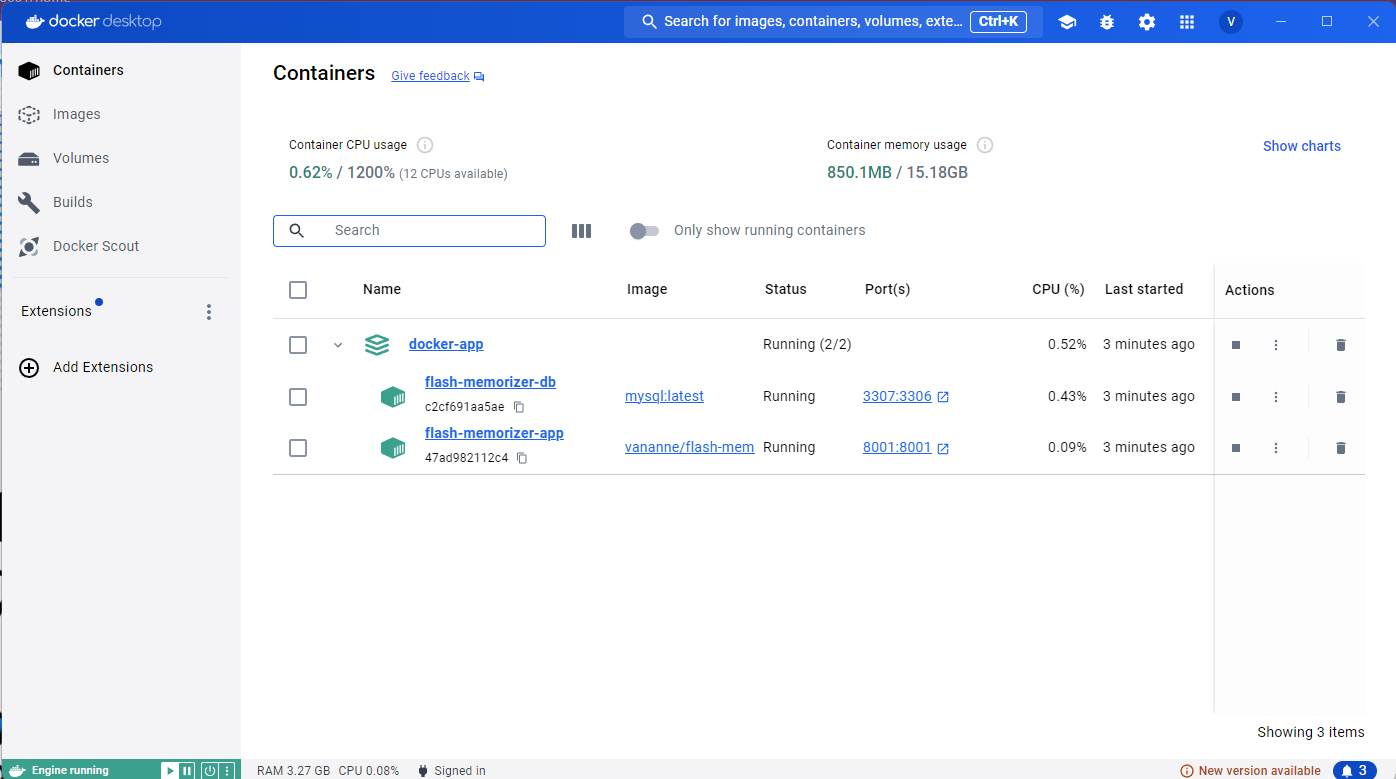
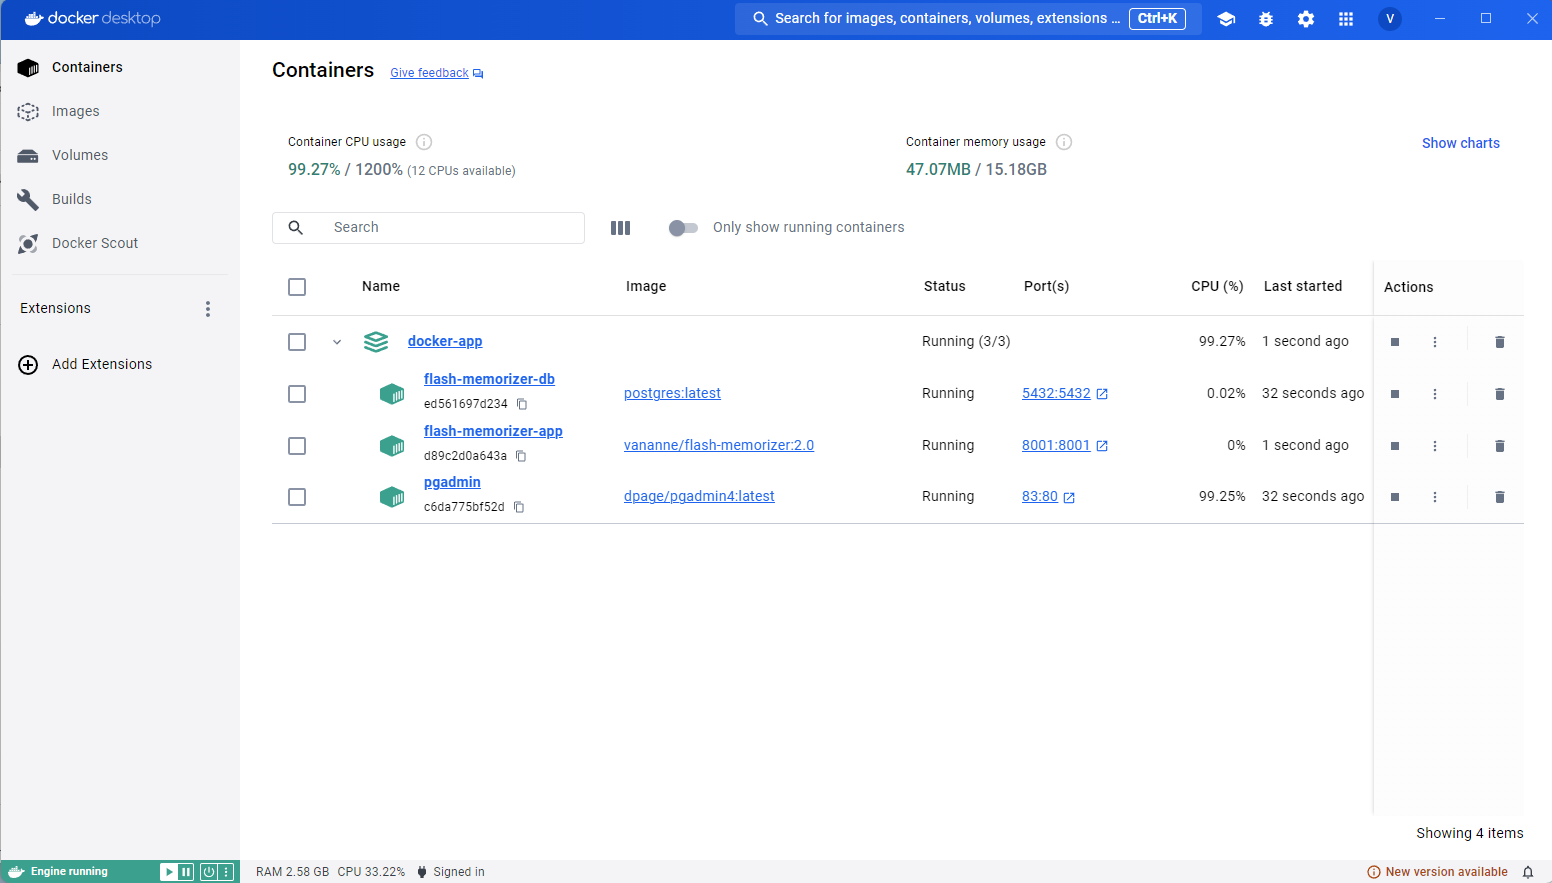
#20 - migrate to PostgreSQL

diff --git a/src/main/java/com/uniteam/flashmemorizer/repository/UserRepository.java b/src/main/java/com/uniteam/flashmemorizer/repository/UserRepository.java
@@ -1,7 +1,6 @@
 package com.uniteam.flashmemorizer.repository;
 
 import com.uniteam.flashmemorizer.entity.User;
-import jakarta.transaction.Transactional;
 import org.springframework.data.jpa.repository.JpaRepository;
 import org.springframework.data.jpa.repository.Modifying;
 import org.springframework.data.jpa.repository.Query;
@@ -17,7 +16,6 @@ public interface UserRepository extends JpaRepository<User, Long> {
     User findByUsername(String username);
 
     @Modifying
-    @Transactional
     @Query("UPDATE User u SET u.pass = :password WHERE u.id = :userId")
     void updatePasswordById(Long userId, String password);
 }

diff --git a/src/main/java/com/uniteam/flashmemorizer/entity/Card.java b/src/main/java/com/uniteam/flashmemorizer/entity/Card.java
@@ -19,10 +19,10 @@ public class Card {
     @GeneratedValue(strategy = GenerationType.IDENTITY)
     private Long id;
 
-    @Column(name = "card_term", columnDefinition = "text")
+    @Column(name = "card_term")
     private String term;
 
-    @Column(name = "card_desc", columnDefinition = "text")
+    @Column(name = "card_desc")
     private String desc;
 
     @ManyToOne(fetch = FetchType.LAZY)

diff --git a/src/main/java/com/uniteam/flashmemorizer/entity/Deck.java b/src/main/java/com/uniteam/flashmemorizer/entity/Deck.java
@@ -23,7 +23,7 @@ public class Deck {
     @Column(name = "deck_name", length = 50)
     private String name;
 
-    @Column(name = "deck_desc", columnDefinition = "text")
+    @Column(name = "deck_desc")
     private String desc;
 
     @ManyToOne(fetch = FetchType.LAZY)

diff --git a/README.md b/README.md
@@ -2,17 +2,25 @@
 
 _This application provides an immersive learning experience, allowing users to enhance their English language skills effortlessly. Furthermore, It also simplifies the memorization of challenging material, leading to time-saving and enhanced productivity._
 
-### Sections
+## **Table of Contents**
 
-- [Clone repository](#clone-repository)
+- [Clone Repository](#clone-repository)
 - [Access Path (URL)](#access-path-url)
+- [Features](#features)
+- [Technical](#technical)
 - [Run Database in Docker](#run-database-in-docker)
-- [Run the Application in Docker](#run-the-application-in-docker)
+    - [To Run](#to-run)
+    - [Remove Container Without Deleting PostgreSQL Data](#remove-container-without-deleting-postgresql-data)
+    - [Accessing pgAdmin4 (Web Version)](#accessing-pgadmin4-web-version)
+- [Run The Application in Docker](#run-the-application-in-docker)
+    - [To Run](#to-run-1)
+    - [Remove Container Without Deleting PostgreSQL Data](#remove-container-without-deleting-postgresql-data-1)
+- [Testing Accounts](#testing-accounts)
 
 ## **Clone repository**
 
 ```terminal
-git clone https://github.com/UniversityWeb/flash-memorizer-it-proj.git
+git clone https://github.com/UniversityWeb/flash-memorizer.git
 ```
 
 ## **[Access Path (URL)](http://localhost:8001/)**
@@ -29,15 +37,15 @@ git clone https://github.com/UniversityWeb/flash-memorizer-it-proj.git
 
 ## **Technical**
 
-1. Tools: IntelliJ IDE (Free Edition), Docker, MySQL Workbench.
-2. SQL: MySQL.
+1. Tools: IntelliJ IDE (Free Edition), Docker Desktop (or CLI version), pgAdmin4 (Web version).
+2. SQL: PostgreSQL.
 3. Backend framework: Spring boot.
 4. UI: Bootstrap.
 5. Concepts: JPA, Spring Security, MVC, SOLID, Design pattern.
 
 ## **Run Database in Docker**
 
-Please note: You must be in the `docker-db` folder. The database will be opened on port `3307`.
+Please note: You must be in the `docker-db` folder. The database will be opened on port `5432`.
 
 ### To Run
 
@@ -47,25 +55,31 @@ docker-compose up -d
 
 ![Alt text](images-of-readme-file/run-db-on-docker.png)
 
-#### Remove container without deleting MySQL data
+#### Remove container without deleting PostgreSQL data
 
 ```
 docker-compose down
 ```
 
-### Connect Database with MySQL Workbench
+### Accessing pgAdmin4 (Web version)
+Once the Docker container is running, you can access the pgAdmin4 interface at:
 
+URL: http://localhost:83 (replace localhost with the appropriate IP address if needed)
+- Email Address: `admin@admin.com`
+- Password: `admin`
+
+![Alt text](images-of-readme-file/connect-db-on-pgadmin4.png)
+
+Detail specs of PostgreSQL
 - Connection Name: `Docker Provider`
 - Hostname: `localhost`
-- Port: `3307`
+- Port: `5432`
 - Username: `root`
 - Password: `root`
 
-![Alt text](images-of-readme-file/config-workbench.png)
-
 ## **Run The Application in Docker**
 
-Please note: You must be in the `docker-app` folder. The database and the application will be opened on ports `3307` and `8001`, respectively.
+Please note: You must be in the `docker-app` folder. The database and the application will be opened on ports `5432`, `83`, and `8001`, respectively.
 
 ### To Run
 
@@ -75,8 +89,12 @@ docker-compose up -d
 
 ![img.png](images-of-readme-file/run-app-on-docker.png)
 
-#### Remove container without deleting MySQL data
+#### Remove container without deleting PostgreSQL data
 
 ```
 docker-compose down
 ```
+
+## **Testing Accounts**
+- Username: `vanan`.
+- Password: `123456`.
